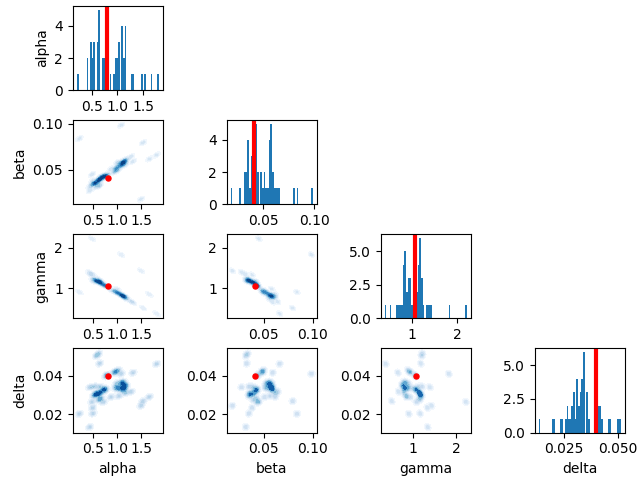
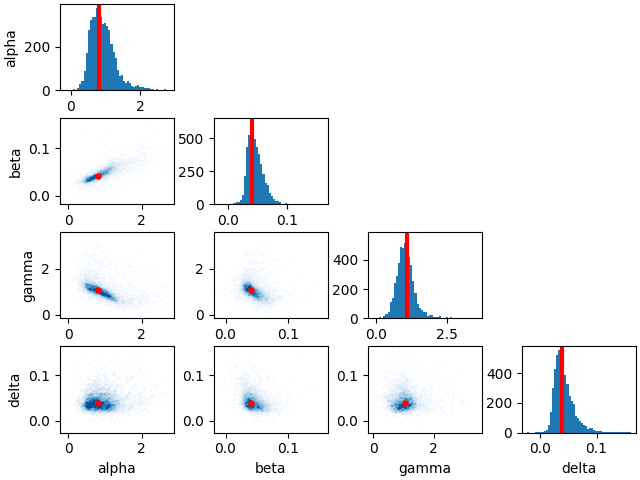
generic commit

diff --git a/scripts/transport/kvae_flow.py b/scripts/transport/kvae_flow.py
@@ -715,7 +715,7 @@ def run():
     #two_d_exp(ref_gen, sample_spirals, N=N, n_iter=49, plt_range=[[-3, 3], [-3, 3]], process_funcs=[],
               #skip_idx=1, slice_vals=[-1,0,1], slice_range=[-3,3], exp_name='exp', n_transports=200, vmax=.15,
               #batch_size = batch_size, reg_lambda= 1e-5, N_plot = 10000)
-    vl_exp(batch_size=8000, n_transports=150)
+    vl_exp(batch_size=9000, n_transports=150)
 
     #vl_exp(N = 20000, batch_size=4000, n_transports=150, n_iter=51, exp_name='kvl_exp')
     #0.0008
